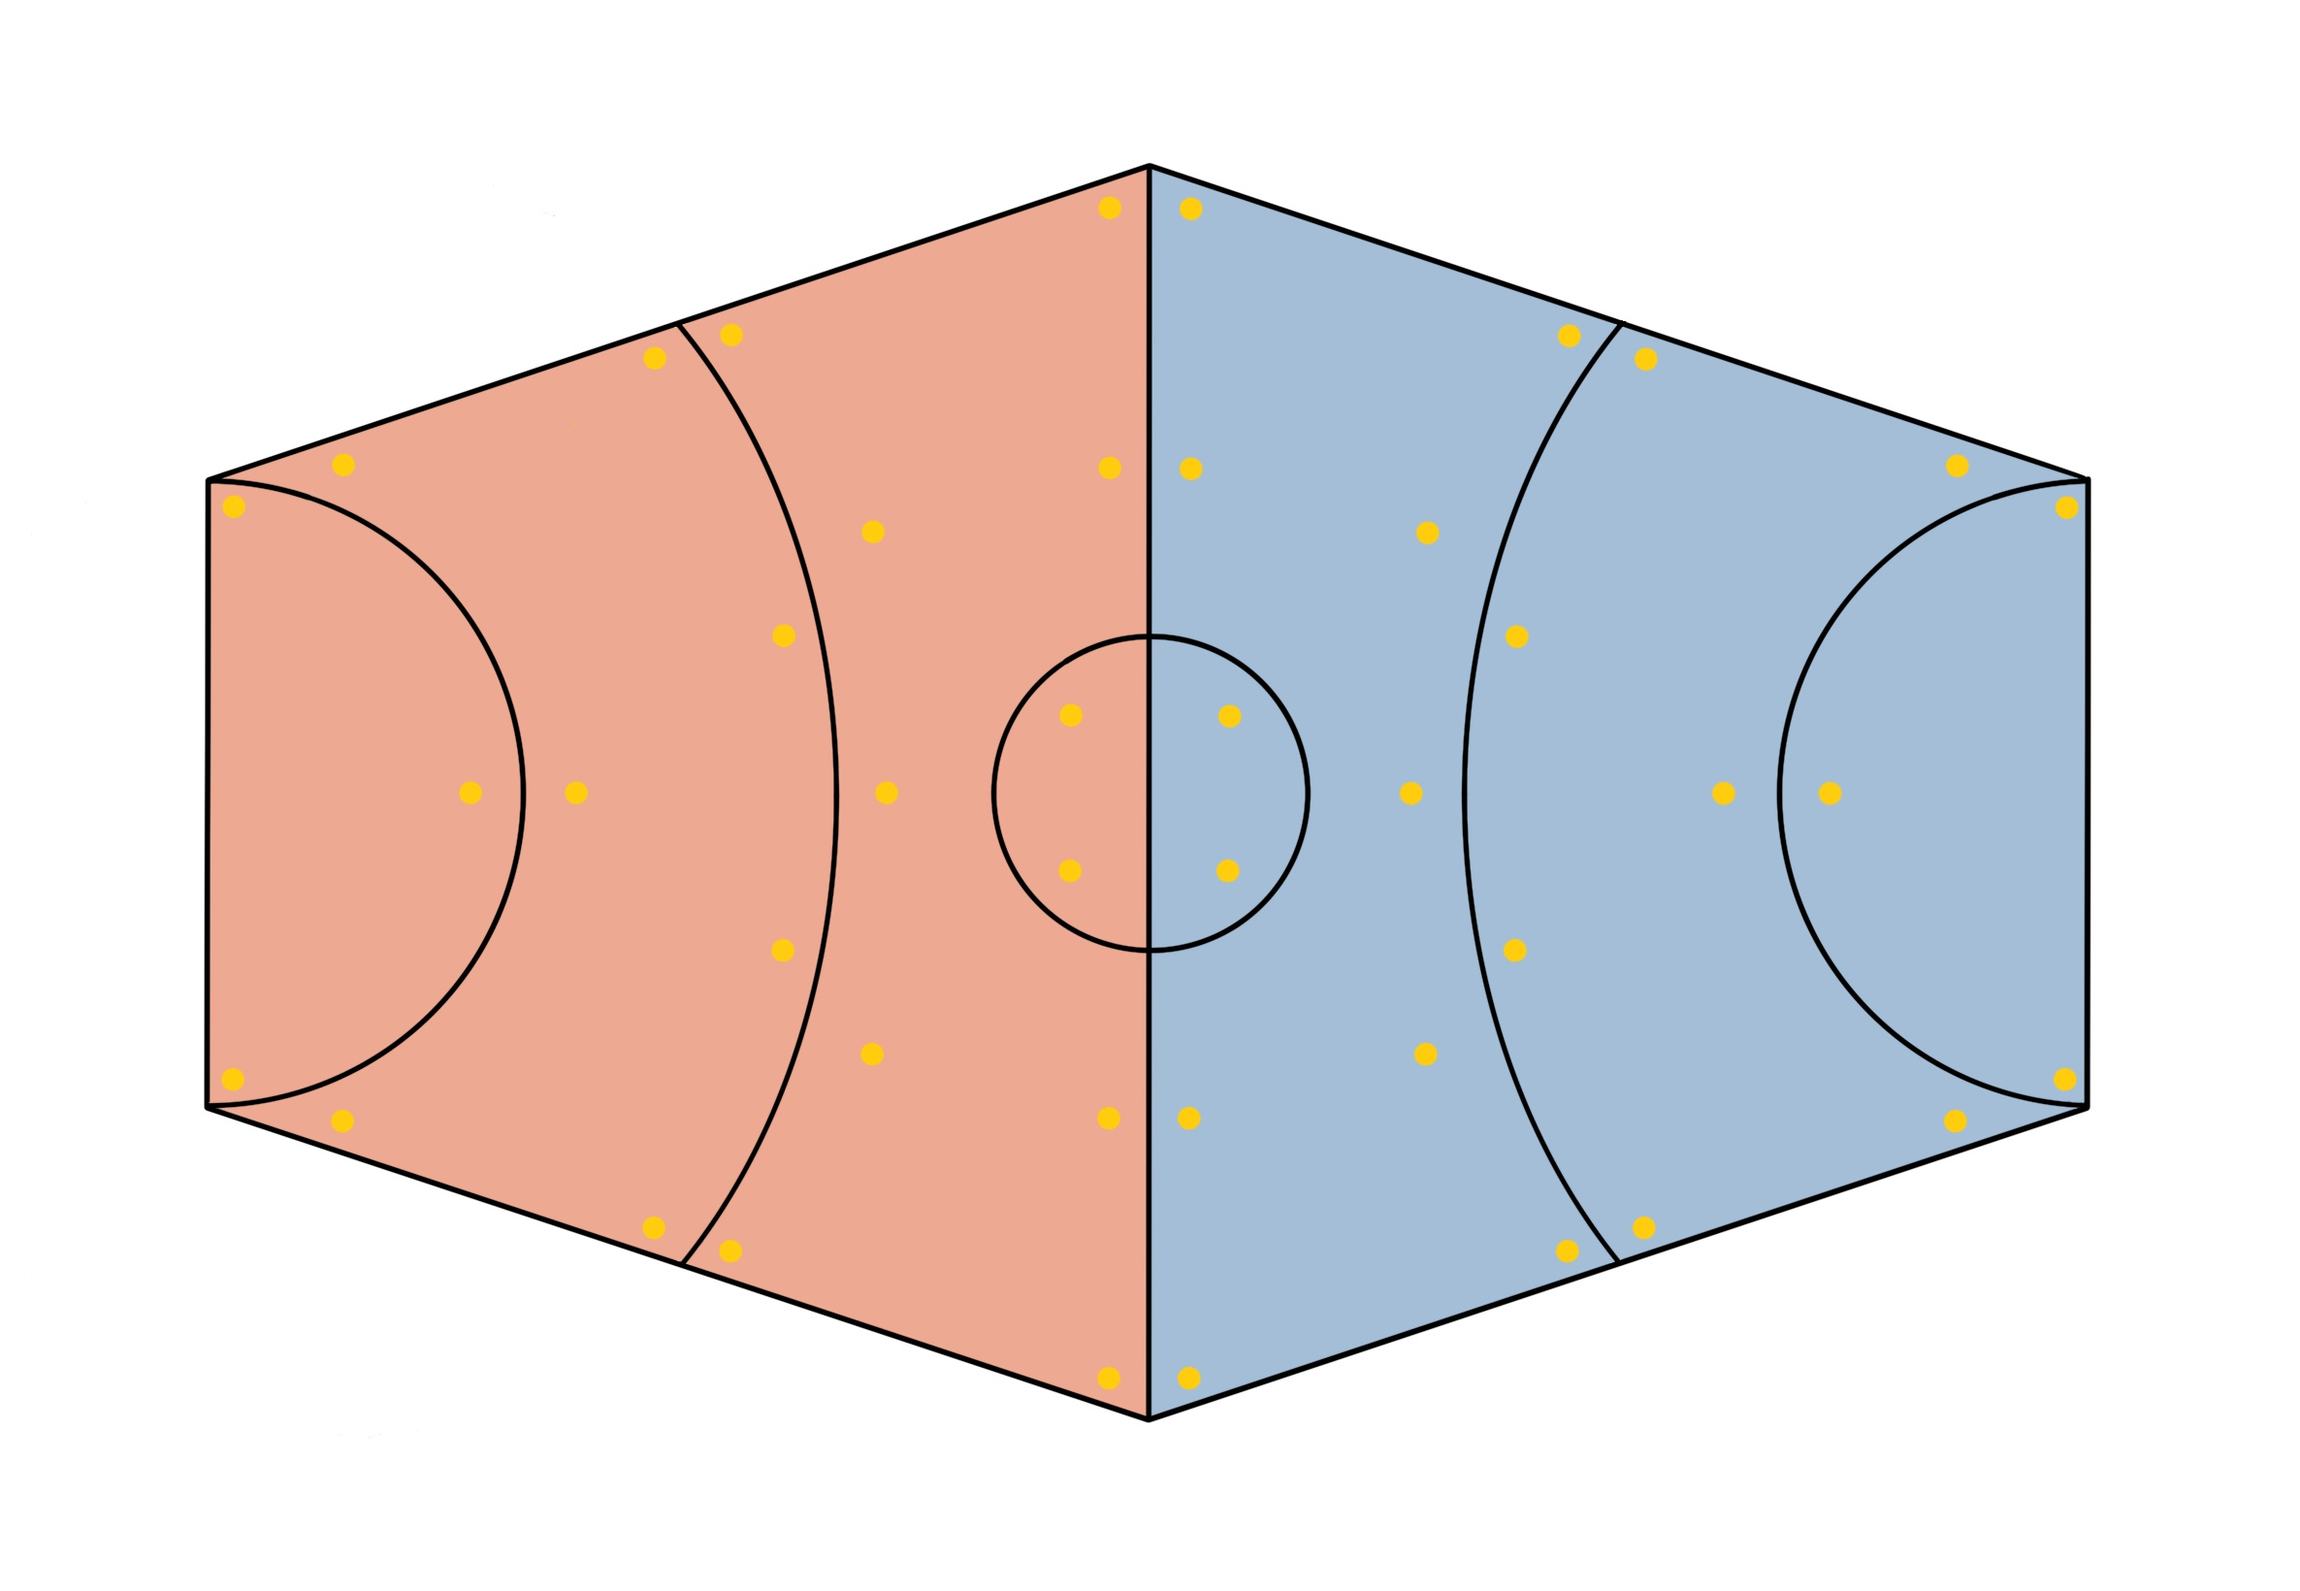
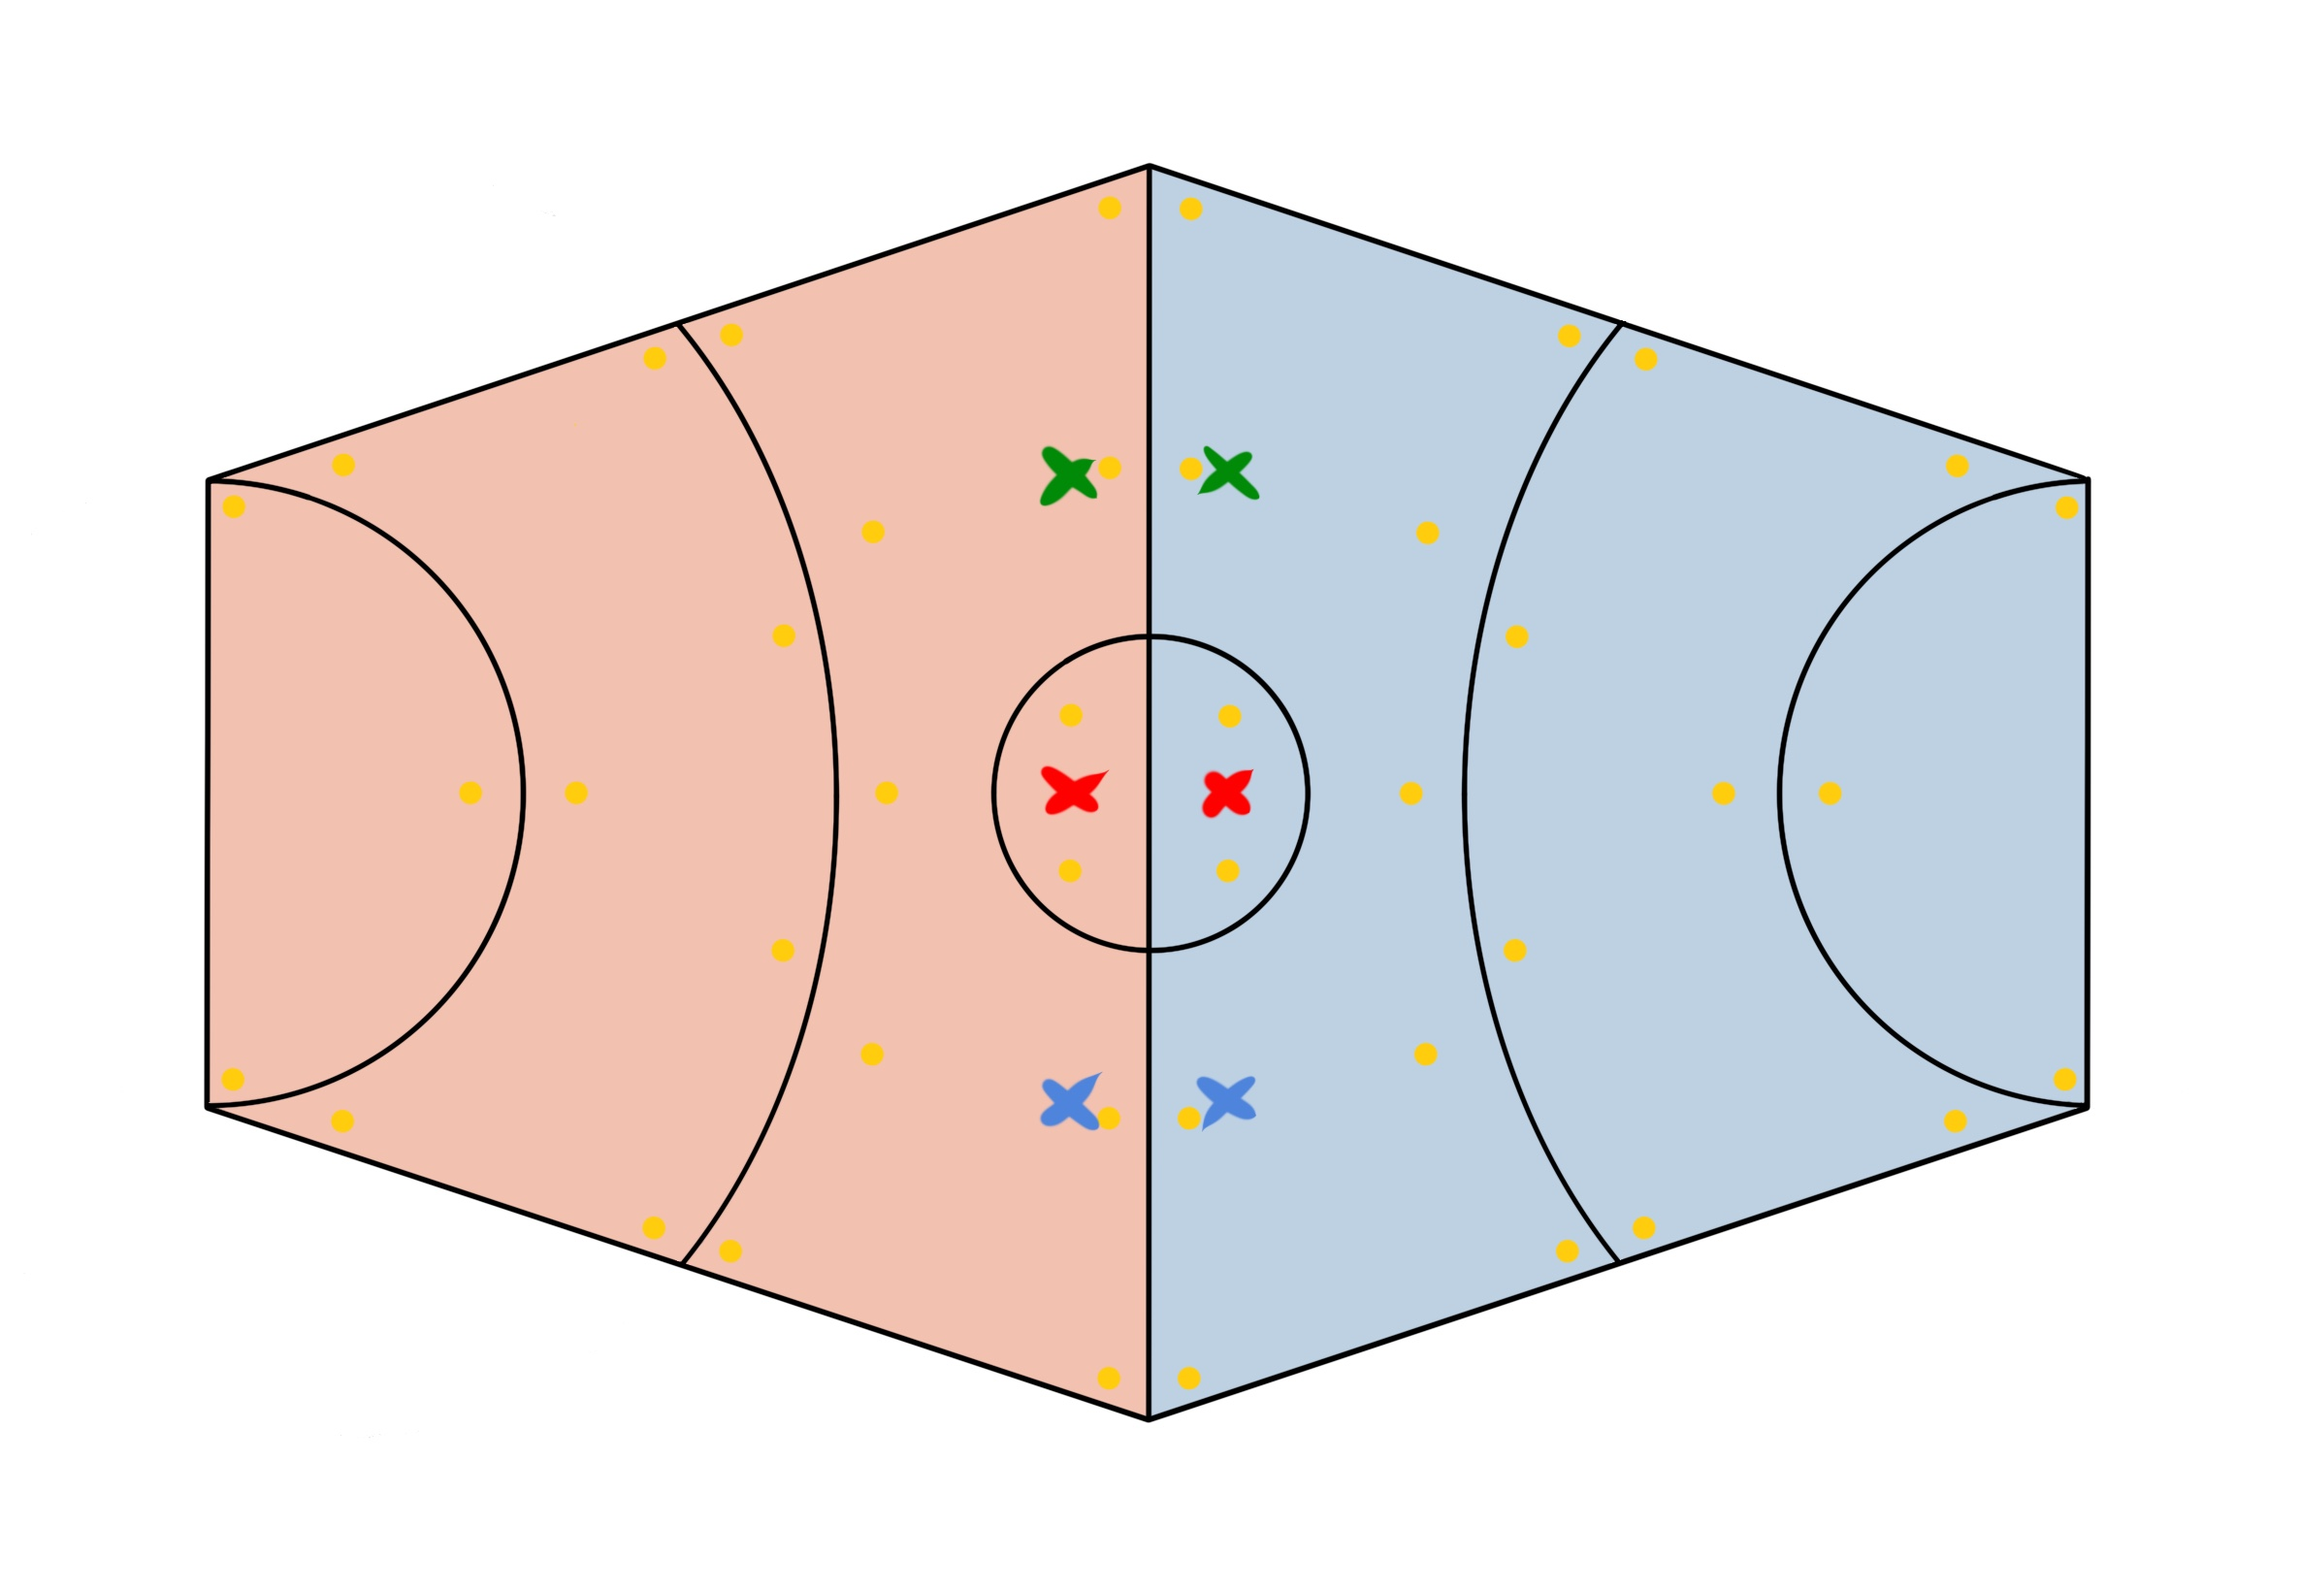
update pro bending page

diff --git a/_sass/custom/style.scss b/_sass/custom/style.scss
@@ -112,7 +112,9 @@ h5 {
   border: 0px !important;
 }
 
-
+span.ital {
+  font-style: italic;
+}
 blockquote {
   font-style: normal;
   font-size: 16px;
@@ -122,6 +124,9 @@ blockquote {
   margin-left: 1.5em;
   margin-right: 1.5em;
   padding: 15px;
+}
+blockquote.example {
+  background-color: $grey-color-medium;
 }
 blockquote h5 {
   font-size: 16px;

diff --git a/_sass/minima.scss b/_sass/minima.scss
@@ -16,6 +16,7 @@ $brand-color:      #2a7ae2 !default;
 
 $grey-color:       #828282 !default;
 $grey-color-light: lighten($grey-color, 40%) !default;
+$grey-color-medium:lighten($grey-color, 25%) !default;
 $grey-color-dark:  darken($grey-color, 25%) !default;
 $grey-color-hover:  #bbb !default;
 

diff --git a/pro-bending.md b/pro-bending.md
@@ -7,30 +7,30 @@ permalink: /pro-bending
 
 # Pro Bending
 
-The rules of pro bending are pretty simple. Take control over the area in a specified amount of time until you either defeat your opponents or win. 
-
-## Rules
-*The rules are based off of the rules listed [here](https://avatar.fandom.com/wiki/Pro-bending).*
+The rules of pro bending are pretty simple: take control over the area in a specified amount of time until you either defeat your opponents or win. 
 
 ![Bending ring](assets/Bending_Arena.jpg)
 
-The ring is divided into two halves, each of which is further divided into three sections, and a central circle to be used in tie-breakers. Each section is 30 feet wide. Teams begin the match facing each other in the two sections closest to the center. The goal is to knock the other team back and off the platform.
+## Rules
+
+The ring is divided into two halves, each of which is further divided into three zones. A central circle is used only for tie-breakers. Each zone is 30 feet wide. Teams begin the match facing each other in the two zones closest to the center (starting positions are marked with an X in the corresponding element's color). The goal is to knock the other team back and off the platform. ([Link to map with 5-foot grid](assets/Bending_Arena_grid.jpg).)
 
 The ring is lined with trenches of water between the zones and around the ring, which provide enough material for waterbenders. Additionally, it is dotted with earthen disks (in yellow) for the earthbenders.
 
 ### Game Structure
 
-Each "round" of the game consists of 4 rounds of combat and there are 12 rounds total (3 sets of 4).
-- When the time expires, whichever team has advanced into the opposite side of the ring wins the round.
+Each set of the game consists of 3 rounds of combat. There are 9 rounds total (3 sets of 3).
+- Players take their places in the starting positions. The match proceeds in initiative order.
+- When the time expires, whichever team has advanced into the opposite side of the ring wins the set.
 - If a round is tied, the tie is resolved by a 1-on-1 face-off. A coin toss is performed, and the team that wins the coin toss chooses an element for the 1-on-1, which takes place entirely in the central circle of the ring. 
 - If all players on a team are KO'd (knocked completely off the back of the platform), the other team wins the entire match.
 
 ### Actions
 - **Attack:**
     - On a hit, the target takes damage and is knocked back a number of feet equal to the damage.
-    - Additionally, when you are reduced to 2/3 of your total HP you are moved back one section, and again when you are reduced to 1/3. (So, when you are at 2/3 health, you move to the 2nd section from the center, and at 1/3 to the last section.)
-    - When everyone on one team is knocked out of a section, each player on the other team advances one zone.
-    - If a player is knocked to 0 HP, they are knocked back 3 sections (knocking them off the map unless ground was taken).
+    - Additionally, when you are reduced to 2/3 of your total HP you are moved back one zone, and again when you are reduced to 1/3. This movement is on top of the movement from damage.
+    - When everyone on one team is knocked out of a zone, each player on the other team advances one zone.
+    - If a player is knocked to 0 HP, they are knocked back 3 zones (knocking them off the map unless ground was taken).
     - Regaining an area does not restore the corresponding HP.
 - **Move:**
     - You can use your movement to reposition yourself within your zone.
@@ -48,24 +48,34 @@ Each "round" of the game consists of 4 rounds of combat and there are 12 rounds 
 > - Headshots
 > - Mixing water and rocks
 > - Grappling
+> - Obstructing the ref's view
 
 ### Face-off
-In case of a tie, the round is resolved by a 1-on-1 fight. In this face-off, players can switch sides and grapple each other, and whoever knocks the other player out of the central zone first wins the tie-breaker. Players can take the same actions (described above) as in the regular setting. A player is knocked out of the central circle, giving the opposite team the win, if they are pushed out of the zone by the effects of an attack or if their HP is rediced to 2/3 of their total HP.
+In case of a tie, the round is resolved by a 1-on-1 fight. In this face-off, players can switch sides and grapple each other, and whoever knocks the other player out of the central zone first wins the tie-breaker. Players can take the same actions (described above) as in the regular setting. A player is knocked out of the central circle, giving the opposite team the win, if they are pushed out of the zone by the effects of an attack or if their HP is reduced by 1/3 of their total HP or to 0 HP, whichever comes first.
 
 ### Crowd Mechanic
-- Each round, one player on each team can flavor an attack to try to gain the crowd's favor. The players roll contesting Charisma (Performance) check.
+- Each round, one player on each team can flavor an attack to try to gain the crowd's favor. The players roll contesting Charisma (Performance) checks.
 
 - The crowd can be in a neutral state, a negative state, or a positive state, depending on your team's amount of "crowd points". A team can have at most +3 and at minimum -3 crowd points. (If you have +3 points and gain a point, you stay at +3, and vice versa: if you are at -3 and lose a point, you stay at -3.)
     - The team with the winner of the contested Performance check gains a crowd point, and the other team loses a point.
     - Because one team's loss is the other team's gain, the two teams' crowd points always sum to 0.
 
-> For example, the firebender Jian-Yang uses the *Projectiles* form three quick attacks at an opponent. He wants to make it look very impressive, so he decides to launch them in midair as he performs a forward flip, launching the first two from each of his feet as he flips and the last one with his right fist as he lands.   
-> 
-> To complete this feat, he rolls a Performance check contested by a player on the opposite team. On a success, the crowd is impressed and his team gains a crowd point. On a failure, the performance is lackluster (maybe he stumbles on the landing) and the crowd is disappointed. His team loses a crowd point.
+<blockquote class="example">
+<h4>Example</h4>
+<p>The firebender Jian-Yang uses the <span class="ital">Projectiles</span> form to make three quick attacks at an opponent. He wants to make it look very impressive, so he decides to launch them in midair as he performs a forward flip, launching the first two from each of his feet as he flips and the last one with his right fist as he lands.</p>
+
+<p>To complete this feat, he rolls a Performance check. The check will be contested by a player on the opposite team. At the end of the combat round, if Jian-Yang wins the check, the crowd is most impressed with his attack and his team gains a crowd point. On a failure, his performance is lackluster (maybe he stumbles on the landing) and the crowd is disappointed. His team loses a crowd point.</p>
+</blockquote>
 
 - Having the crowd on your side gives your team one inspiration point for the round, to give to one player on the team as you see fit.
 - **Teamwork:**
     - If your team lands three attacks in one round, you gain advantage on your roll to impress the crowd.
 
-> #### Bending X Leagues
-> Leagues with more lax rules exist. In these far more dangerous matches, any manifestation of the elements is allowed, including ice, lightning, magma, plants, and more.
+## Bending X Leagues
+Leagues with more lax rules exist. In these far more dangerous matches, any manifestation of the elements is allowed, including ice, lightning, magma, plants, and more.
+
+Furthermore, none of the fouls in regular Pro Bending are against the rules in Bending X.
+
+<br/>
+
+*The rules were based off the rules listed [here](https://avatar.fandom.com/wiki/Pro-bending). Huge thanks to Kevin for developing this system!*
